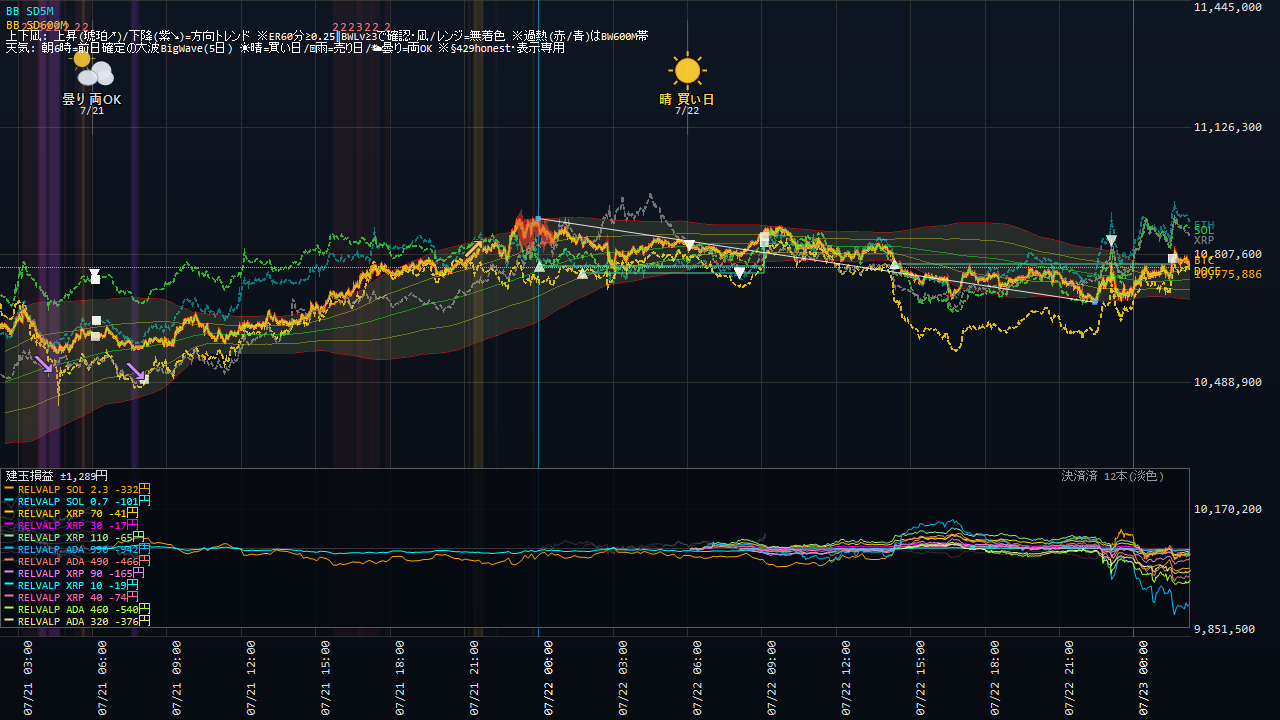
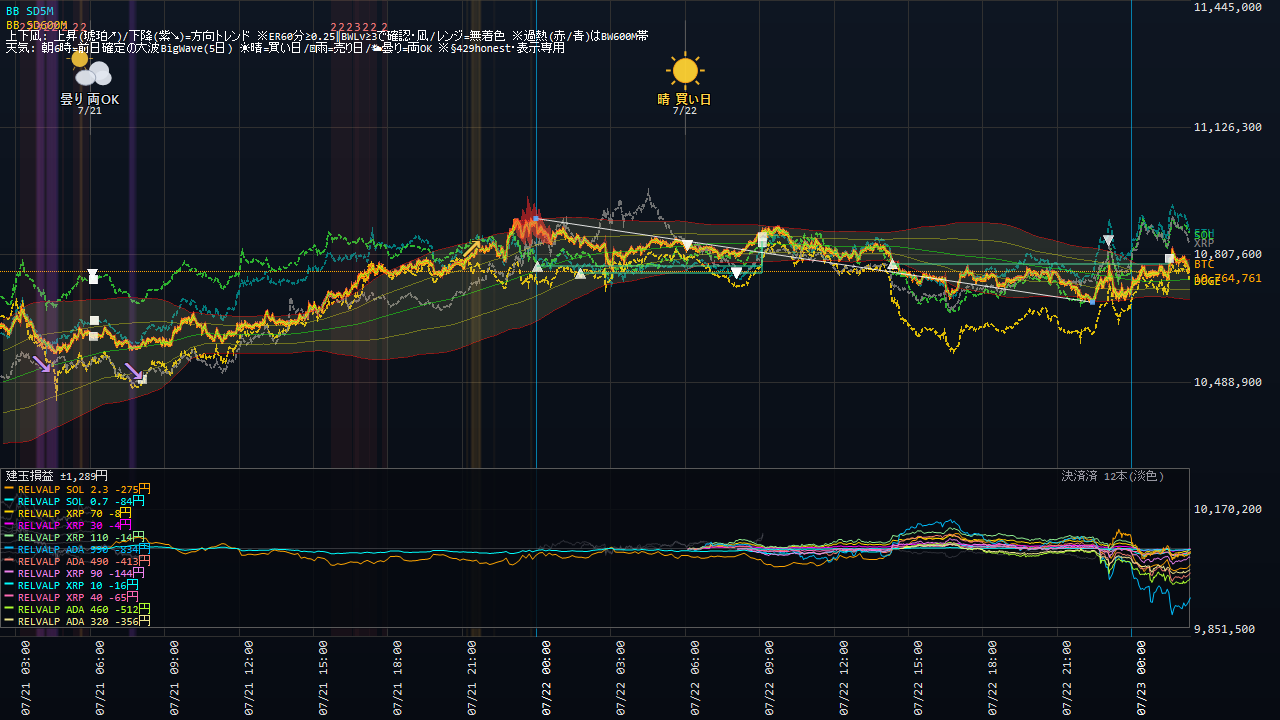
Coin100S 運用状況更新 07-23 02:23

diff --git a/coin100s-795hc4jfv8/index.html b/coin100s-795hc4jfv8/index.html
@@ -14,16 +14,16 @@ a{color:#60a5fa;text-decoration:none} a:hover{text-decoration:underline}
 .meta{color:#94a3b8;font-size:13px}</style>
 <script>setTimeout(function(){location.replace(location.pathname+"?t="+Date.now());},300000);</script></head><body>
 <h1>Coin100S ダッシュボード</h1>
-<p class="meta">スナップショット: 2026-07-23 02:17:05(自動リロード・最新化)</p>
+<p class="meta">スナップショット: 2026-07-23 02:23:05(自動リロード・最新化)</p>
 <div class="cards">
 <div class="card">建玉数<div class="v">13</div></div>
 <div class="card">本日損益<div class="v pos">+490円</div></div>
-<div class="card">評価損益<div class="v neg">-3,201円</div></div>
+<div class="card">評価損益<div class="v neg">-2,996円</div></div>
 </div>
 <h2>現在の建玉</h2>
-<table><tr><th>銘柄</th><th>側</th><th>数量</th><th>建値</th><th>含損益</th><th>レッグ</th></tr><tr><td>ADA_JPY</td><td>SELL</td><td>320</td><td>@28</td><td>-381円</td><td>RELVALP_SL700</td></tr><tr><td>ADA_JPY</td><td>SELL</td><td>460</td><td>@28</td><td>-547円</td><td>RELVALP_SELL</td></tr><tr><td>ADA_JPY</td><td>SELL</td><td>490</td><td>@28</td><td>-455円</td><td>RELVALP_SL700</td></tr><tr><td>ADA_JPY</td><td>SELL</td><td>990</td><td>@28</td><td>-919円</td><td>RELVALP_SELL</td></tr><tr><td>SOL_JPY</td><td>SELL</td><td>2.5</td><td>@12,763</td><td>-133円</td><td>SIGFADE_SOL</td></tr><tr><td>SOL_JPY</td><td>SELL</td><td>0.7</td><td>@12,663</td><td>-108円</td><td>RELVALP_SL700</td></tr><tr><td>SOL_JPY</td><td>SELL</td><td>2.3</td><td>@12,663</td><td>-352円</td><td>RELVALP_SELL</td></tr><tr><td>XRP_JPY</td><td>SELL</td><td>40</td><td>@186</td><td>-69円</td><td>RELVALP_SL700</td></tr><tr><td>XRP_JPY</td><td>SELL</td><td>10</td><td>@186</td><td>-18円</td><td>RELVALP_SELL</td></tr><tr><td>XRP_JPY</td><td>SELL</td><td>90</td><td>@186</td><td>-152円</td><td>RELVALP_SELL</td></tr><tr><td>XRP_JPY</td><td>SELL</td><td>110</td><td>@187</td><td>-35円</td><td>RELVALP_SELL</td></tr><tr><td>XRP_JPY</td><td>SELL</td><td>30</td><td>@187</td><td>-10円</td><td>RELVALP_SELL</td></tr><tr><td>XRP_JPY</td><td>SELL</td><td>70</td><td>@187</td><td>-22円</td><td>RELVALP_SL700</td></tr></table>
+<table><tr><th>銘柄</th><th>側</th><th>数量</th><th>建値</th><th>含損益</th><th>レッグ</th></tr><tr><td>ADA_JPY</td><td>SELL</td><td>320</td><td>@28</td><td>-360円</td><td>RELVALP_SL700</td></tr><tr><td>ADA_JPY</td><td>SELL</td><td>460</td><td>@28</td><td>-517円</td><td>RELVALP_SELL</td></tr><tr><td>ADA_JPY</td><td>SELL</td><td>490</td><td>@28</td><td>-423円</td><td>RELVALP_SL700</td></tr><tr><td>ADA_JPY</td><td>SELL</td><td>990</td><td>@28</td><td>-854円</td><td>RELVALP_SELL</td></tr><tr><td>SOL_JPY</td><td>SELL</td><td>2.5</td><td>@12,763</td><td>-133円</td><td>SIGFADE_SOL</td></tr><tr><td>SOL_JPY</td><td>SELL</td><td>0.7</td><td>@12,663</td><td>-108円</td><td>RELVALP_SL700</td></tr><tr><td>SOL_JPY</td><td>SELL</td><td>2.3</td><td>@12,663</td><td>-352円</td><td>RELVALP_SELL</td></tr><tr><td>XRP_JPY</td><td>SELL</td><td>40</td><td>@186</td><td>-63円</td><td>RELVALP_SL700</td></tr><tr><td>XRP_JPY</td><td>SELL</td><td>10</td><td>@186</td><td>-16円</td><td>RELVALP_SELL</td></tr><tr><td>XRP_JPY</td><td>SELL</td><td>90</td><td>@186</td><td>-137円</td><td>RELVALP_SELL</td></tr><tr><td>XRP_JPY</td><td>SELL</td><td>110</td><td>@187</td><td>-17円</td><td>RELVALP_SELL</td></tr><tr><td>XRP_JPY</td><td>SELL</td><td>30</td><td>@187</td><td>-5円</td><td>RELVALP_SELL</td></tr><tr><td>XRP_JPY</td><td>SELL</td><td>70</td><td>@187</td><td>-11円</td><td>RELVALP_SL700</td></tr></table>
 <p><a href="status.html"><b>▶ 運用状況の詳細(チャート・本日の取引・レジーム)</b></a></p>
 <h2>日報一覧</h2>
 <table><tr><th>取引日</th><th>実現損益</th><th>総括</th></tr><tr><td><a href='reports/20260721_Coin100S日報.html'>2026-07-21</a></td><td class="pos">+0円</td><td class='meta'>実取引: 新規4件/決済13件、実現損益 +0円。⚠警告/エラー 13件（要確認）。</td></tr><tr><td><a href='reports/20260720_Coin100S日報.html'>2026-07-20</a></td><td class="pos">+0円</td><td class='meta'>実取引: 新規8件/決済21件、実現損益 +0円。シグナル却下8件（最多: BW10M3_5M／トレンド方向ゲート(N分傾き上と不一致=逆張り方向のfade禁止)）。⚠警告/エラー 13件（要確認）。</td></tr><tr><td><a href='reports/20260719_Coin100S日報.html'>2026-07-19</a></td><td class="pos">+0円</td><td class='meta'>実取引: 新規10件/決済7件、実現損益 +0円。⚠警告/エラー 3件（要確認）。</td></tr><tr><td><a href='reports/20260718_Coin100S日報.html'>2026-07-18</a></td><td class="pos">+0円</td><td class='meta'>実取引: 新規9件/決済8件、実現損益 +0円。警告/孤児/エラーなし＝健全。</td></tr><tr><td><a href='reports/20260717_Coin100S日報.html'>2026-07-17</a></td><td class="pos">+0円</td><td class='meta'>実取引: 新規3件/決済2件、実現損益 +0円。シグナル却下1件（最多: BW10M3_5M／トレンド方向ゲート(N分傾き下と不一致=逆張り方向のfade禁止)）。⚠警告/エラー 2件（要確認）。</td></tr><tr><td><a href='reports/20260716_Coin100S日報.html'>2026-07-16</a></td><td class="pos">+0円</td><td class='meta'>実取引: 新規0件/決済5件、実現損益 +0円。⚠警告/エラー 7件（要確認）。</td></tr><tr><td><a href='reports/20260715_Coin100S日報.html'>2026-07-15</a></td><td class="pos">+0円</td><td class='meta'>実取引: 新規6件/決済5件、実現損益 +0円。シグナル却下6件（最多: BW10M3_5M／トレンド方向ゲート(N分傾き上と不一致=逆張り方向のfade禁止)）。⚠警告/エラー 7件（要確認）。</td></tr><tr><td><a href='reports/20260714_Coin100S日報.html'>2026-07-14</a></td><td class="pos">+0円</td><td class='meta'>実取引: 新規6件/決済18件、実現損益 +0円。シグナル却下5件（最多: BW10M3_5M／トレンド方向ゲート(N分傾き上と不一致=逆張り方向のfade禁止)）。⚠警告/エラー 9件（要確認）。</td></tr><tr><td><a href='reports/20260713_Coin100S日報.html'>2026-07-13</a></td><td class="pos">+0円</td><td class='meta'>実取引: 新規5件/決済8件、実現損益 +0円。シグナル却下1件（最多: BW10M3_5M／トレンド方向ゲート(N分傾き上と不一致=逆張り方向のfade禁止)）。警告/孤児/エラーなし＝健全。</td></tr><tr><td><a href='reports/20260712_Coin100S日報.html'>2026-07-12</a></td><td class="pos">+0円</td><td class='meta'>実取引: 新規14件/決済6件、実現損益 +0円。シグナル却下5件（最多: BW10M3_5M／トレンド方向ゲート(N分傾き下と不一致=逆張り方向のfade禁止)）。⚠警告/エラー 2件（要確認）。</td></tr><tr><td><a href='reports/20260711_Coin100S日報.html'>2026-07-11</a></td><td class="pos">+0円</td><td class='meta'>実取引: 新規7件/決済6件、実現損益 +0円。⚠警告/エラー 52件（要確認）。</td></tr><tr><td><a href='reports/20260710_Coin100S日報.html'>2026-07-10</a></td><td class="pos">+0円</td><td class='meta'>実取引: 新規7件/決済6件、実現損益 +0円。シグナル却下6件（最多: BW10M3_5M／トレンド方向ゲート(N分傾き上と不一致=逆張り方向のfade禁止)）。警告/孤児/エラーなし＝健全。</td></tr><tr><td><a href='reports/20260709_Coin100S日報.html'>2026-07-09</a></td><td class="pos">+0円</td><td class='meta'>実取引: 新規8件/決済3件、実現損益 +0円。シグナル却下5件（最多: SD120M_5M／トレンド方向ゲート(N分傾き上と不一致=逆張り方向のfade禁止)）。警告/孤児/エラーなし＝健全。</td></tr><tr><td><a href='reports/20260708_Coin100S日報.html'>2026-07-08</a></td><td class="pos">+0円</td><td class='meta'>実取引: 新規2件/決済4件、実現損益 +0円。シグナル却下4件（最多: SD120M_5M／トレンド方向ゲート(N分傾き下と不一致=逆張り方向のfade禁止)）。警告/孤児/エラーなし＝健全。</td></tr><tr><td><a href='reports/20260707_Coin100S日報.html'>2026-07-07</a></td><td class="pos">+0円</td><td class='meta'>実取引: 新規8件/決済6件、実現損益 +0円。シグナル却下4件（最多: SD120M_5M／トレンド方向ゲート(N分傾き上と不一致=逆張り方向のfade禁止)）。⚠警告/エラー 258件（要確認）。</td></tr><tr><td><a href='reports/20260706_Coin100S日報.html'>2026-07-06</a></td><td class="pos">+0円</td><td class='meta'>実取引: 新規9件/決済6件、実現損益 +0円。シグナル却下9件（最多: SD120M_5M／トレンド方向ゲート(N分傾き上と不一致=逆張り方向のfade禁止)）。⚠警告/エラー 150件（要確認）。</td></tr><tr><td><a href='reports/20260705_Coin100S日報.html'>2026-07-05</a></td><td class="pos">+0円</td><td class='meta'>実取引: 新規8件/決済3件、実現損益 +0円。⚠警告/エラー 2件（要確認）。</td></tr><tr><td><a href='reports/20260704_Coin100S日報.html'>2026-07-04</a></td><td class="pos">+0円</td><td class='meta'>実取引: 新規1件/決済2件、実現損益 +0円。⚠警告/エラー 2件（要確認）。</td></tr><tr><td><a href='reports/20260703_Coin100S日報.html'>2026-07-03</a></td><td class="pos">+0円</td><td class='meta'>実取引: 新規5件/決済4件、実現損益 +0円。⚠警告/エラー 15件（要確認）。</td></tr><tr><td><a href='reports/20260702_Coin100S日報.html'>2026-07-02</a></td><td class="pos">+0円</td><td class='meta'>実取引: 新規7件/決済5件、実現損益 +0円。シグナル却下17件（最多: SD120M_5M／トレンド方向ゲート(N分傾き上と不一致=逆張り方向のfade禁止)）。⚠警告/エラー 26件（要確認）。</td></tr><tr><td><a href='reports/20260701_Coin100S日報.html'>2026-07-01</a></td><td class="pos">+0円</td><td class='meta'>実取引: 新規14件/決済8件、実現損益 +0円。シグナル却下14件（最多: SD120M_5M／ボラ軸ゲート(SDN%&amp;gt;N%=高ボラ/荒れレンジ)）。⚠警告/エラー 2件（要確認）。</td></tr><tr><td><a href='reports/20260630_Coin100S日報.html'>2026-06-30</a></td><td class="pos">+0円</td><td class='meta'>実取引: 新規0件/決済1件、実現損益 +0円。シグナル却下29件（最多: 微5M／当日枠N）。警告/孤児/エラーなし＝健全。</td></tr></table>
-<hr><p class="meta">更新: 2026-07-23 02:17:06 / 自動生成: tools/web_publish.py(§580)</p>
+<hr><p class="meta">更新: 2026-07-23 02:23:06 / 自動生成: tools/web_publish.py(§580)</p>
 </body></html>

diff --git a/coin100s-795hc4jfv8/status.html b/coin100s-795hc4jfv8/status.html
@@ -14,22 +14,22 @@ a{color:#60a5fa;text-decoration:none} a:hover{text-decoration:underline}
 .meta{color:#94a3b8;font-size:13px}</style>
 <script>setTimeout(function(){location.replace(location.pathname+"?t="+Date.now());},300000);</script></head><body>
 <h1>Coin100S 運用状況</h1>
-<p class="meta">スナップショット: 2026-07-23 02:16:35 / ページ生成: 2026-07-23 02:17:06(自動リロード・最新化) / <a href="index.html">目次へ</a></p>
+<p class="meta">スナップショット: 2026-07-23 02:22:35 / ページ生成: 2026-07-23 02:23:06(自動リロード・最新化) / <a href="index.html">目次へ</a></p>
 <div class="cards">
 <div class="card">建玉数<div class="v">13</div></div>
 <div class="card">本日損益<div class="v pos">+490円</div></div>
-<div class="card">評価損益<div class="v neg">-3,196円</div></div>
+<div class="card">評価損益<div class="v neg">-2,996円</div></div>
 </div>
 <h2>資産推移(直近30日)</h2>
-<img src="status_equity.png?t=0217" alt="equity">
+<img src="status_equity.png?t=0223" alt="equity">
 <h2>取引チャート(直近24h)</h2>
-<img src="status_chart.png?t=0217" alt="chart">
+<img src="status_chart.png?t=0223" alt="chart">
 <h2>建玉一覧</h2>
-<table><tr><th>銘柄</th><th>側</th><th>数量</th><th>建値</th><th>含損益</th><th>レッグ</th></tr><tr><td>ADA_JPY</td><td>SELL</td><td>320</td><td>@28</td><td>-377円</td><td>RELVALP_SL700</td></tr><tr><td>ADA_JPY</td><td>SELL</td><td>460</td><td>@28</td><td>-542円</td><td>RELVALP_SELL</td></tr><tr><td>ADA_JPY</td><td>SELL</td><td>490</td><td>@28</td><td>-450円</td><td>RELVALP_SL700</td></tr><tr><td>ADA_JPY</td><td>SELL</td><td>990</td><td>@28</td><td>-909円</td><td>RELVALP_SELL</td></tr><tr><td>SOL_JPY</td><td>SELL</td><td>2.5</td><td>@12,763</td><td>-133円</td><td>SIGFADE_SOL</td></tr><tr><td>SOL_JPY</td><td>SELL</td><td>0.7</td><td>@12,663</td><td>-108円</td><td>RELVALP_SL700</td></tr><tr><td>SOL_JPY</td><td>SELL</td><td>2.3</td><td>@12,663</td><td>-352円</td><td>RELVALP_SELL</td></tr><tr><td>XRP_JPY</td><td>SELL</td><td>40</td><td>@186</td><td>-71円</td><td>RELVALP_SL700</td></tr><tr><td>XRP_JPY</td><td>SELL</td><td>10</td><td>@186</td><td>-18円</td><td>RELVALP_SELL</td></tr><tr><td>XRP_JPY</td><td>SELL</td><td>90</td><td>@186</td><td>-157円</td><td>RELVALP_SELL</td></tr><tr><td>XRP_JPY</td><td>SELL</td><td>110</td><td>@187</td><td>-42円</td><td>RELVALP_SELL</td></tr><tr><td>XRP_JPY</td><td>SELL</td><td>30</td><td>@187</td><td>-11円</td><td>RELVALP_SELL</td></tr><tr><td>XRP_JPY</td><td>SELL</td><td>70</td><td>@187</td><td>-26円</td><td>RELVALP_SL700</td></tr></table>
+<table><tr><th>銘柄</th><th>側</th><th>数量</th><th>建値</th><th>含損益</th><th>レッグ</th></tr><tr><td>ADA_JPY</td><td>SELL</td><td>320</td><td>@28</td><td>-360円</td><td>RELVALP_SL700</td></tr><tr><td>ADA_JPY</td><td>SELL</td><td>460</td><td>@28</td><td>-517円</td><td>RELVALP_SELL</td></tr><tr><td>ADA_JPY</td><td>SELL</td><td>490</td><td>@28</td><td>-423円</td><td>RELVALP_SL700</td></tr><tr><td>ADA_JPY</td><td>SELL</td><td>990</td><td>@28</td><td>-854円</td><td>RELVALP_SELL</td></tr><tr><td>SOL_JPY</td><td>SELL</td><td>2.5</td><td>@12,763</td><td>-133円</td><td>SIGFADE_SOL</td></tr><tr><td>SOL_JPY</td><td>SELL</td><td>0.7</td><td>@12,663</td><td>-108円</td><td>RELVALP_SL700</td></tr><tr><td>SOL_JPY</td><td>SELL</td><td>2.3</td><td>@12,663</td><td>-352円</td><td>RELVALP_SELL</td></tr><tr><td>XRP_JPY</td><td>SELL</td><td>40</td><td>@186</td><td>-63円</td><td>RELVALP_SL700</td></tr><tr><td>XRP_JPY</td><td>SELL</td><td>10</td><td>@186</td><td>-16円</td><td>RELVALP_SELL</td></tr><tr><td>XRP_JPY</td><td>SELL</td><td>90</td><td>@186</td><td>-137円</td><td>RELVALP_SELL</td></tr><tr><td>XRP_JPY</td><td>SELL</td><td>110</td><td>@187</td><td>-17円</td><td>RELVALP_SELL</td></tr><tr><td>XRP_JPY</td><td>SELL</td><td>30</td><td>@187</td><td>-5円</td><td>RELVALP_SELL</td></tr><tr><td>XRP_JPY</td><td>SELL</td><td>70</td><td>@187</td><td>-11円</td><td>RELVALP_SL700</td></tr></table>
 <h2>実現決済履歴(直近15件・OrderId単位)</h2>
 <table><tr><th>決済時刻</th><th>レッグ</th><th>銘柄</th><th>実現損益</th></tr><tr><td>07-23 01:34</td><td>SIGFADE_BTC</td><td>BTC</td><td class="pos">+27円</td></tr><tr><td>07-22 09:08</td><td>SIGFADE_SOL</td><td>SOL</td><td class="pos">+220円</td></tr><tr><td>07-22 09:08</td><td>SIGFADE_ETH</td><td>ETH</td><td class="pos">+243円</td></tr><tr><td>07-21 08:07</td><td>TENKI5D_REV_DOGE</td><td>DOGE</td><td class="neg">-210円</td></tr><tr><td>07-21 06:11</td><td>TENKI5D_REV_ETH</td><td>ETH</td><td class="pos">+622円</td></tr><tr><td>07-21 06:11</td><td>TENKI5D_REV_ETH</td><td>ETH</td><td class="pos">+124円</td></tr><tr><td>07-21 06:09</td><td>TENKI5D_REV_SOL</td><td>SOL</td><td class="pos">+287円</td></tr><tr><td>07-21 06:09</td><td>TENKI5D_REV_SOL</td><td>SOL</td><td class="pos">+454円</td></tr><tr><td>07-21 06:09</td><td>TENKI5D_REV_BTC</td><td>BTC</td><td class="pos">+649円</td></tr><tr><td>07-21 06:08</td><td>RELVALP_SELL</td><td>LTC</td><td class="neg">-267円</td></tr><tr><td>07-21 06:08</td><td>RELVALP_SL700</td><td>LTC</td><td class="neg">-90円</td></tr><tr><td>07-20 23:29</td><td>BW10M3_5M</td><td>BTC</td><td class="neg">-45円</td></tr><tr><td>07-20 10:58</td><td>BW10M3_5M</td><td>BTC</td><td class="pos">+7円</td></tr><tr><td>07-20 09:56</td><td>BW10M3_5M</td><td>BTC</td><td class="neg">-6円</td></tr><tr><td>07-20 09:11</td><td>SIGFADE_ETH</td><td>ETH</td><td class="pos">+370円</td></tr></table>
 <!-- §799c 「本取引日の実取引(6:00起点)」テーブルは公開ページから削除(ユーザー指示2026-07-15・数量/指値まで晒す情報漏れ)。建玉/実現損益は許可・実発注の生取引明細は非公開 -->
 <h2>現在レジーム(3軸・§570c)</h2>
-<ul><li>アルト対BTC 5日: <b>-85bps</b>(アルト劣後=RELVAL順風)</li><li>BTC ER240m: <b>0.067</b>(閾値0.25→レンジ(fade順風/BWTRD逆風))</li><li>BTC実現ボラ240m: <b>5.79</b> bps/分</li></ul>
+<ul><li>アルト対BTC 5日: <b>-85bps</b>(アルト劣後=RELVAL順風)</li><li>BTC ER240m: <b>0.066</b>(閾値0.25→レンジ(fade順風/BWTRD逆風))</li><li>BTC実現ボラ240m: <b>5.78</b> bps/分</li></ul>
 <hr><p class="meta">自動生成: tools/web_publish.py(§580・読み取り専用)。売買判断はアプリ本体。</p>
 </body></html>
